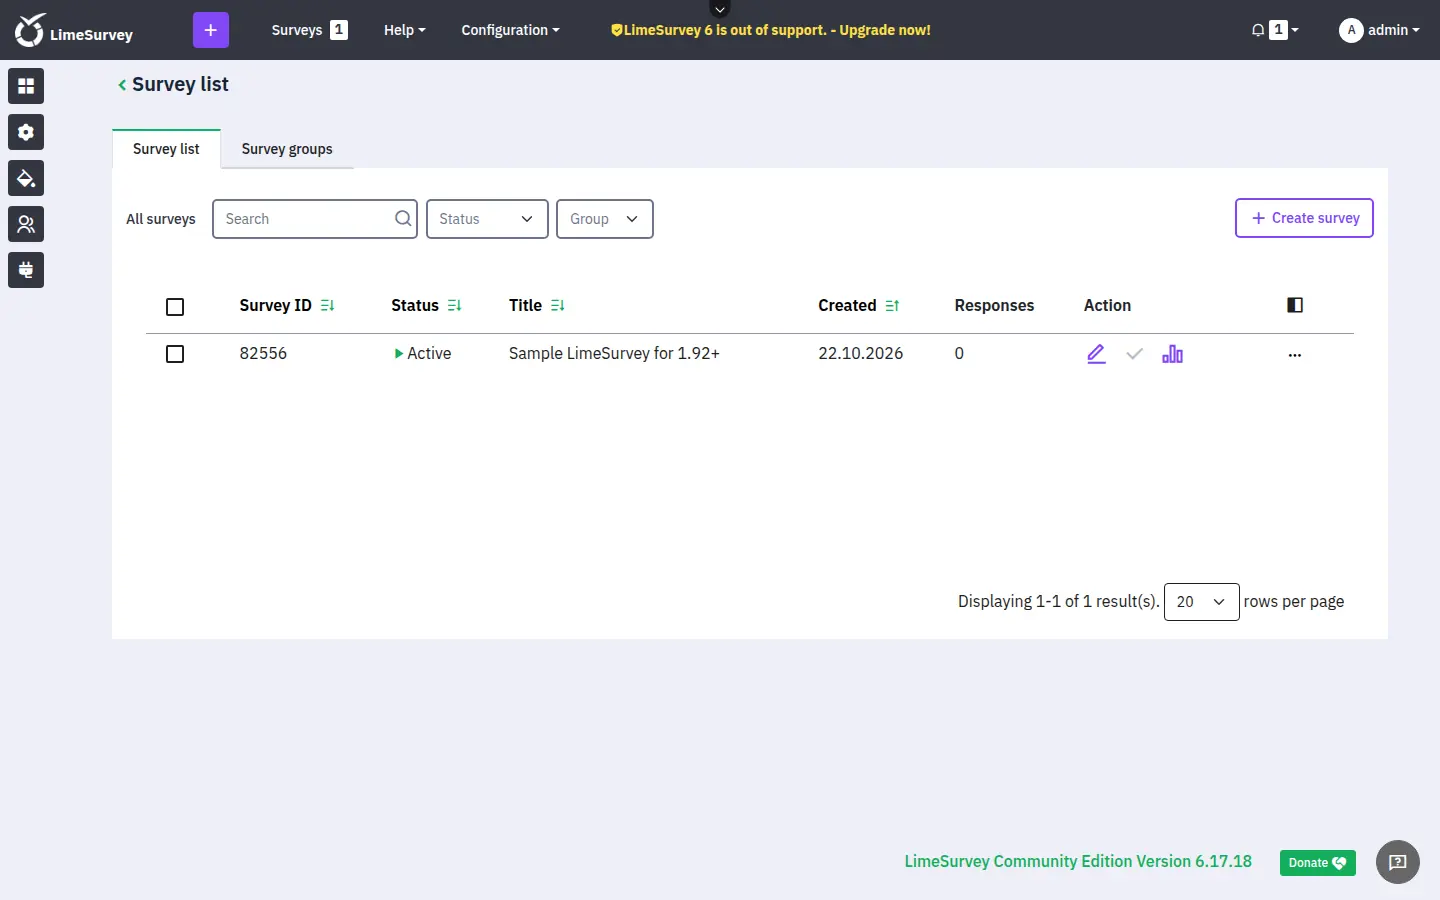
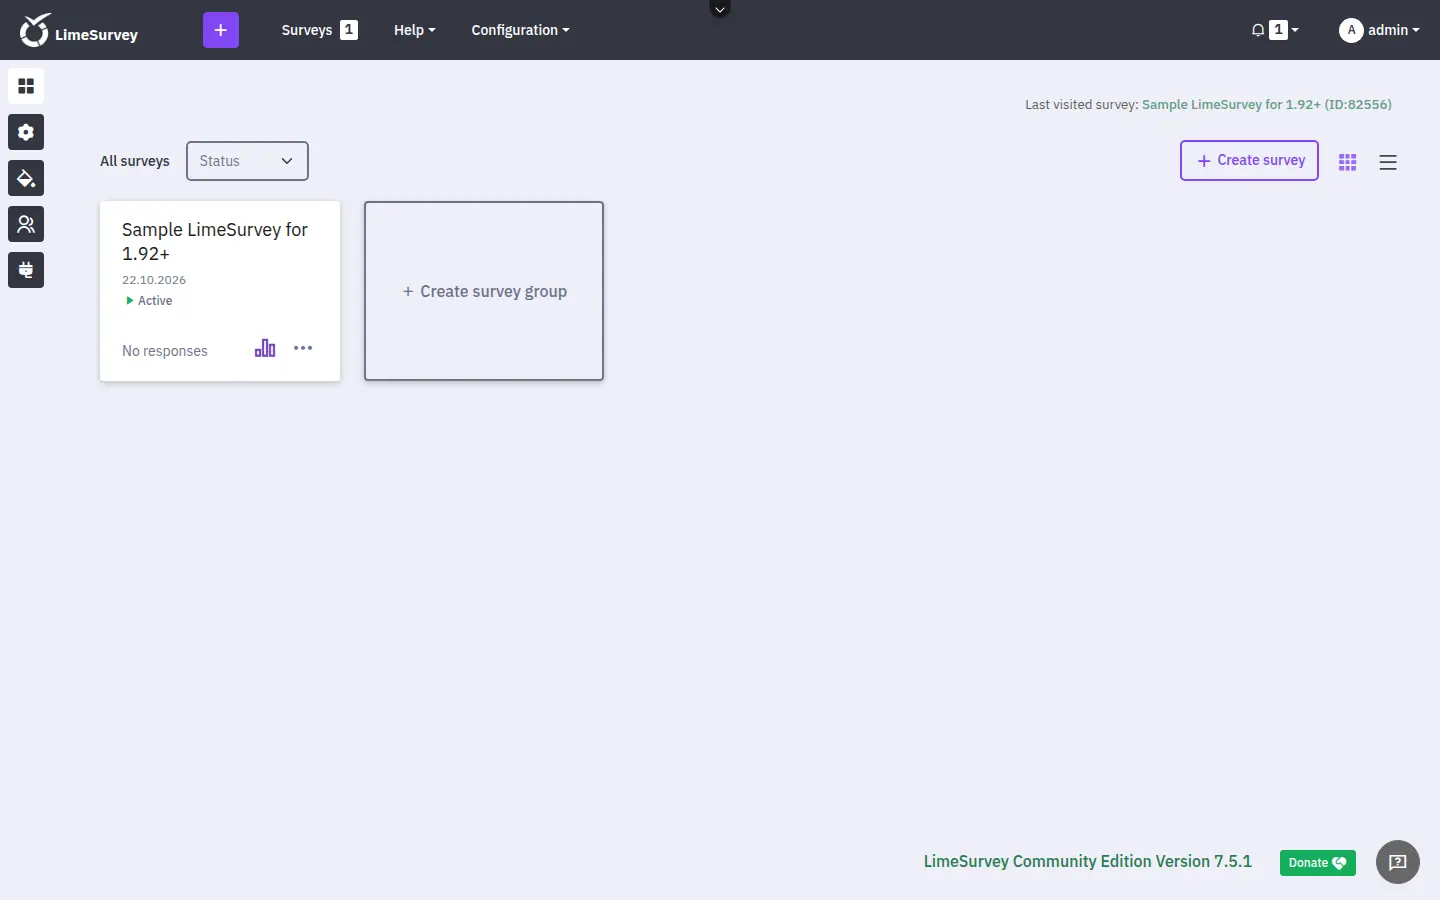
feat(limesurvey): move to LimeSurvey 7.5.1 (6.x is out of support)

diff --git a/charts/limesurvey/chart/CHANGELOG.md b/charts/limesurvey/chart/CHANGELOG.md
@@ -1,7 +1,7 @@
 # 0.1.0
 
-- New chart: LimeSurvey Community Edition 6.17.18 (community image `martialblog/limesurvey`, GPL-2.0-or-later), requires Emporium v0.5.0.
+- New chart: LimeSurvey Community Edition 7.5.1 (community image `martialblog/limesurvey`, GPL-2.0-or-later), requires Emporium v0.5.0.
 - PostgreSQL 17 through the `db` postgres integration (CloudNativePG), connection with `PGSSLMODE=verify-full` and the integration CA; uploads, themes and plugins on a storage volume.
 - Behind the Emporium login (`access: authenticated`); published surveys, their assets and the respondent routes skip it, so respondents need no account. LimeSurvey keeps its own accounts (no free OpenID Connect plugin verifies Logto's ES384 tokens).
 - Administrator password, data encryption key and nonce are generated at install (installOnly, by Secret reference); no default credentials.
-- Tested on Emporium 0.5.0-rc.12 (2026-10-22): install, Emporium login then LimeSurvey login with the generated password, demo survey imported and activated, respondent opened and answered it without any login, admin area without an Emporium session redirects to the login, TLS verify-full to PostgreSQL (TLSv1.3), uninstall without leftovers.
+- Tested on Emporium 0.5.0-rc.12 (2026-10-22): install, Emporium login then LimeSurvey login with the generated password, demo survey imported and activated, respondent opened it without any login, admin area without an Emporium session redirects to the login, TLS verify-full to PostgreSQL (TLSv1.3), uninstall without leftovers.

diff --git a/charts/limesurvey/chart/README.md b/charts/limesurvey/chart/README.md
@@ -2,7 +2,7 @@
 
 LimeSurvey is the open-source survey platform: build questionnaires with logic and quotas, send them to participants and analyse the answers on your own server.
 
-LimeSurvey Community Edition (GPL-2.0-or-later) is the free self-hosted edition. LimeSurvey GmbH publishes no container image, so the chart uses the well-maintained community image `martialblog/limesurvey` (built from the official release tarball with a checksum), version 6.17.18 (the 6.x line is in extended support: security fixes only; a 7.x line exists upstream).
+LimeSurvey Community Edition (GPL-2.0-or-later) is the free self-hosted edition. LimeSurvey GmbH publishes no container image, so the chart uses the well-maintained community image `martialblog/limesurvey` (built from the official release tarball with a checksum), version 7.5.1 (the 6.x line is out of support upstream).
 
 ## Features
 
